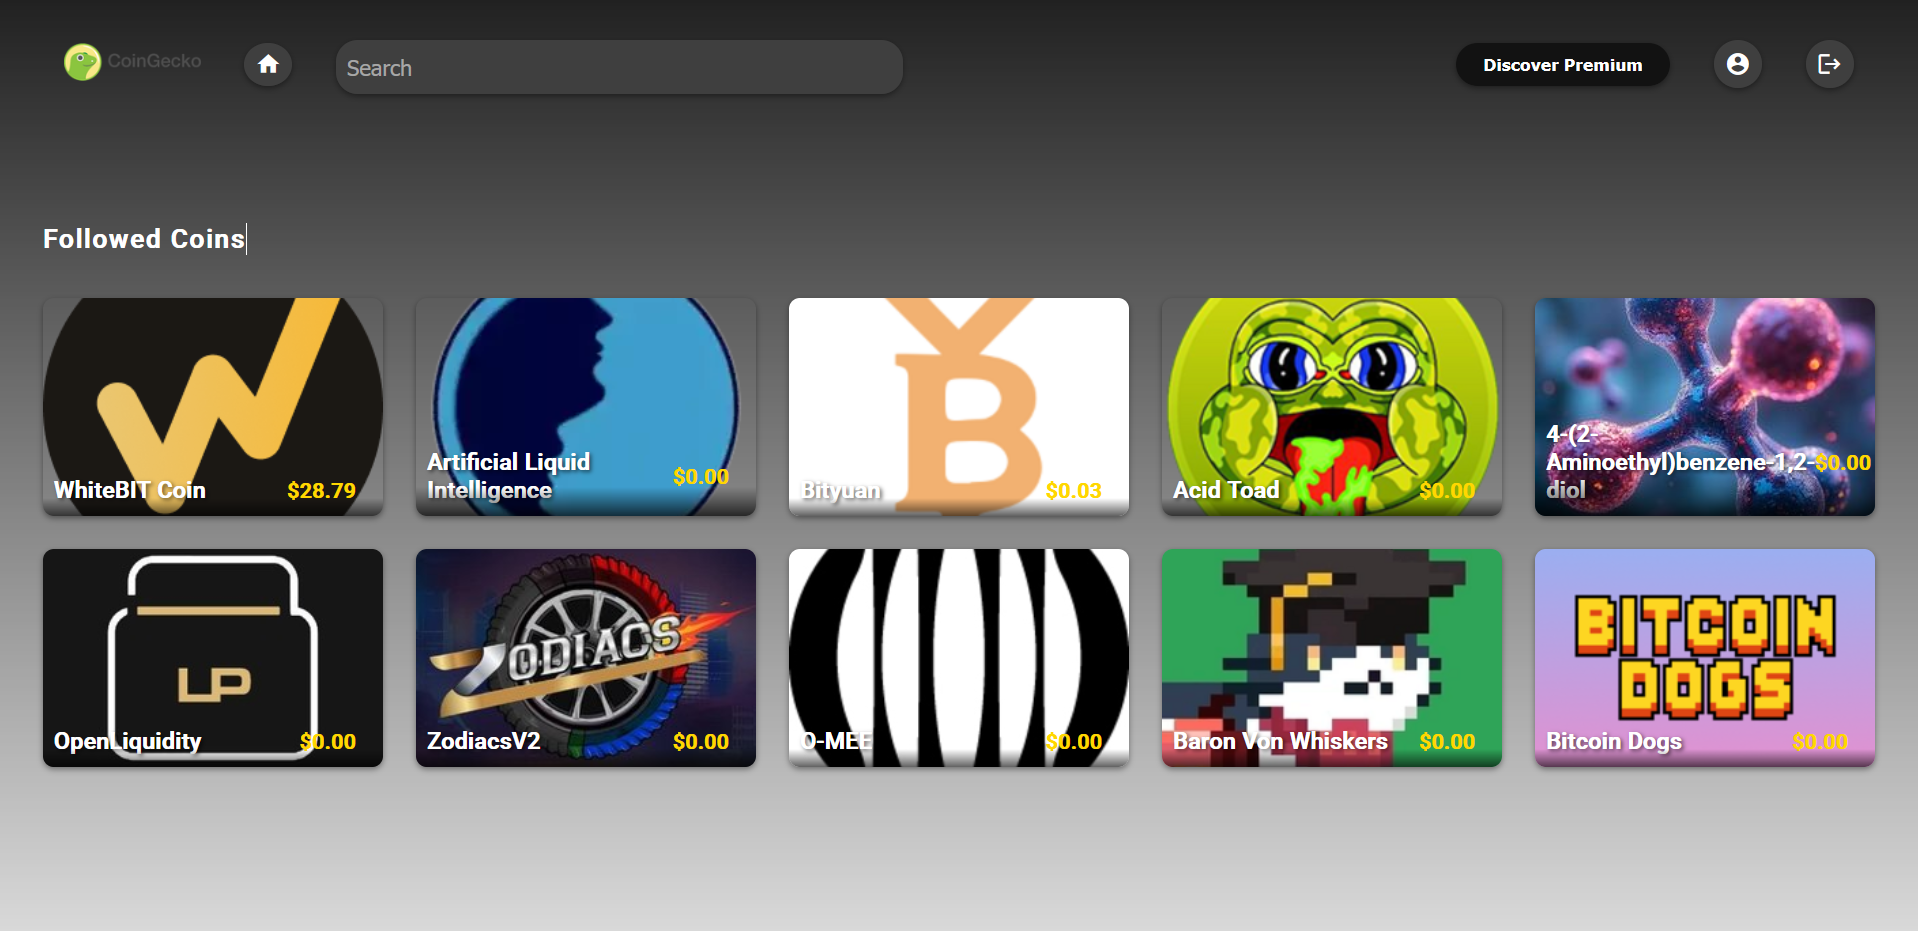
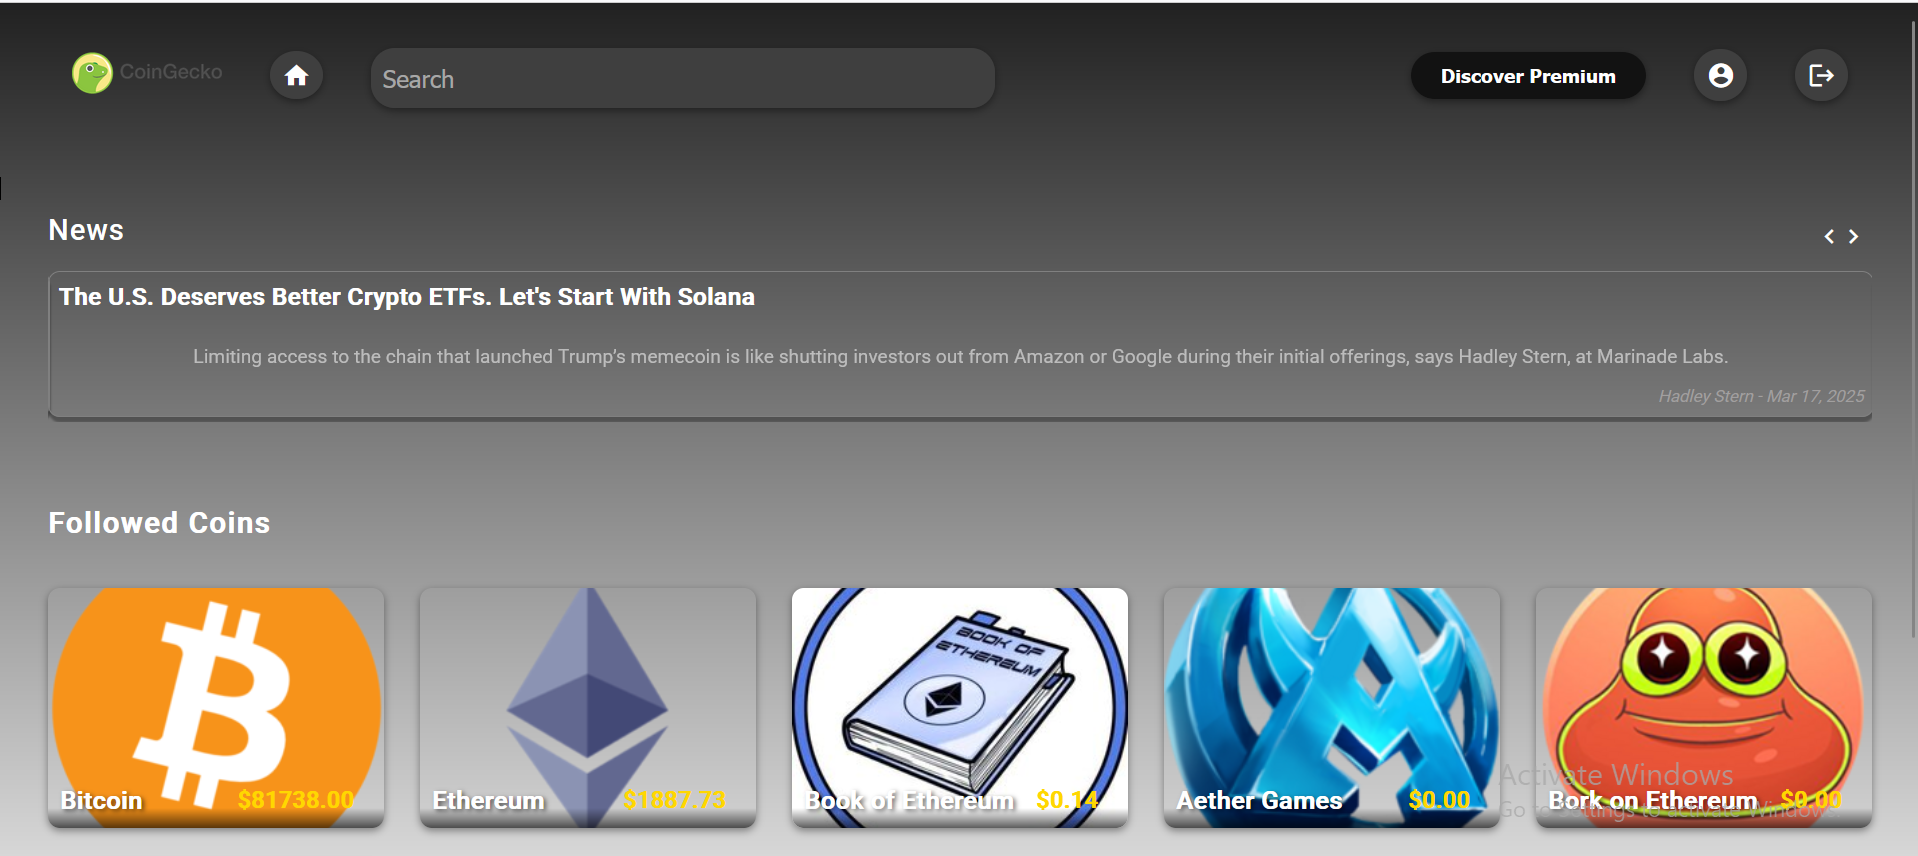
Integrating followed coins News part - 4

diff --git a/client/src/app/Components/coin-news-list/coin-news-list.component.scss b/client/src/app/Components/coin-news-list/coin-news-list.component.scss
@@ -2,7 +2,7 @@ $white: #fff;
 
 .news-container {
   margin: 0 auto;
-  width: 90%;
+  width: 95%;
   padding: 10px;
   background-color: transparent;
   position: relative;
@@ -10,8 +10,9 @@ $white: #fff;
 }
 
 .news-heading {
-  font-size: 2rem;
-  font-weight: bold;
+  font-size: 24px;
+  font-weight: 550;
+  letter-spacing: 1px;
   color: $white;
   text-align: start;
   margin-bottom: 20px;
@@ -34,18 +35,19 @@ $white: #fff;
 
 .carousel-btn {
   position: absolute;
-  top: 30%;
+  top: 23%;
   transform: translateY(-50%);
-  background-color: #acaaaa73;
+  background-color: transparent;
   border: none;
   cursor: pointer;
   z-index: 1;
   font-size: 2rem;
   color: $white;
+  margin-right: 10px;
 }
 
 .carousel-btn.prev {
-  right:30px;
+  right:20px;
 }
 
 .carousel-btn.next {

diff --git a/client/src/app/Components/coin-news-list/coin-news/coin-news.component.scss b/client/src/app/Components/coin-news-list/coin-news/coin-news.component.scss
@@ -17,7 +17,7 @@
   left: 8px;
   font-size: 1.25rem;
   font-weight: 600;
-  color: #000;
+  color: #fff;
 }
 
 .news-description {
@@ -28,7 +28,7 @@
   transform: translate(-50%, -50%);
   text-align: center;
   padding: 0 10px;
-  color: #000;
+  color: #ffffff8a;
   width: calc(100% - 20px);
 }
 

diff --git a/client/src/app/Components/coin-news-list/coin-news-list.component.html b/client/src/app/Components/coin-news-list/coin-news-list.component.html
@@ -1,5 +1,5 @@
 <div class="news-container">
-  <h2 class="news-heading">Latest News</h2>
+  <h2 class="news-heading">News</h2>
   <button class="carousel-btn prev" (click)="prev()">
     <mat-icon>chevron_left</mat-icon>
   </button>

diff --git a/README.md b/README.md
@@ -3,6 +3,21 @@
 CoinHawk is a cutting-edge cryptocurrency  platform that delivers real-time market insights to empower your investment decisions.
 Designed for traders of all levels.
 
+## Stack
+
+1. Frontend: Angular 19
+
+2. Backend: .NET 8 Web API
+
+3. Database: SQL Server (Dockerized)
+
+4. Cache: Redis (Dockerized)
+
+5. Authentication: KeyCloak (Dockerized)
+
+6. External APIs : CoinGeko and News APIs
+
+
 ### Features
 
 1. Login: 
@@ -22,18 +37,6 @@ Designed for traders of all levels.
 
 5. Coin Details: 
     ![CoinHawk Details](assets/Coin-Details.png)
-
-## Technology Stack
-
-1. Frontend: Angular 19
-
-2. Backend: .NET 8 Web API
-
-3. Database: SQL Server (Dockerized)
-
-4. Cache: Redis
-
-5. Authentication: KeyCloak
 
 ## Getting Started
 Follow these steps to set up and run the application locally.
